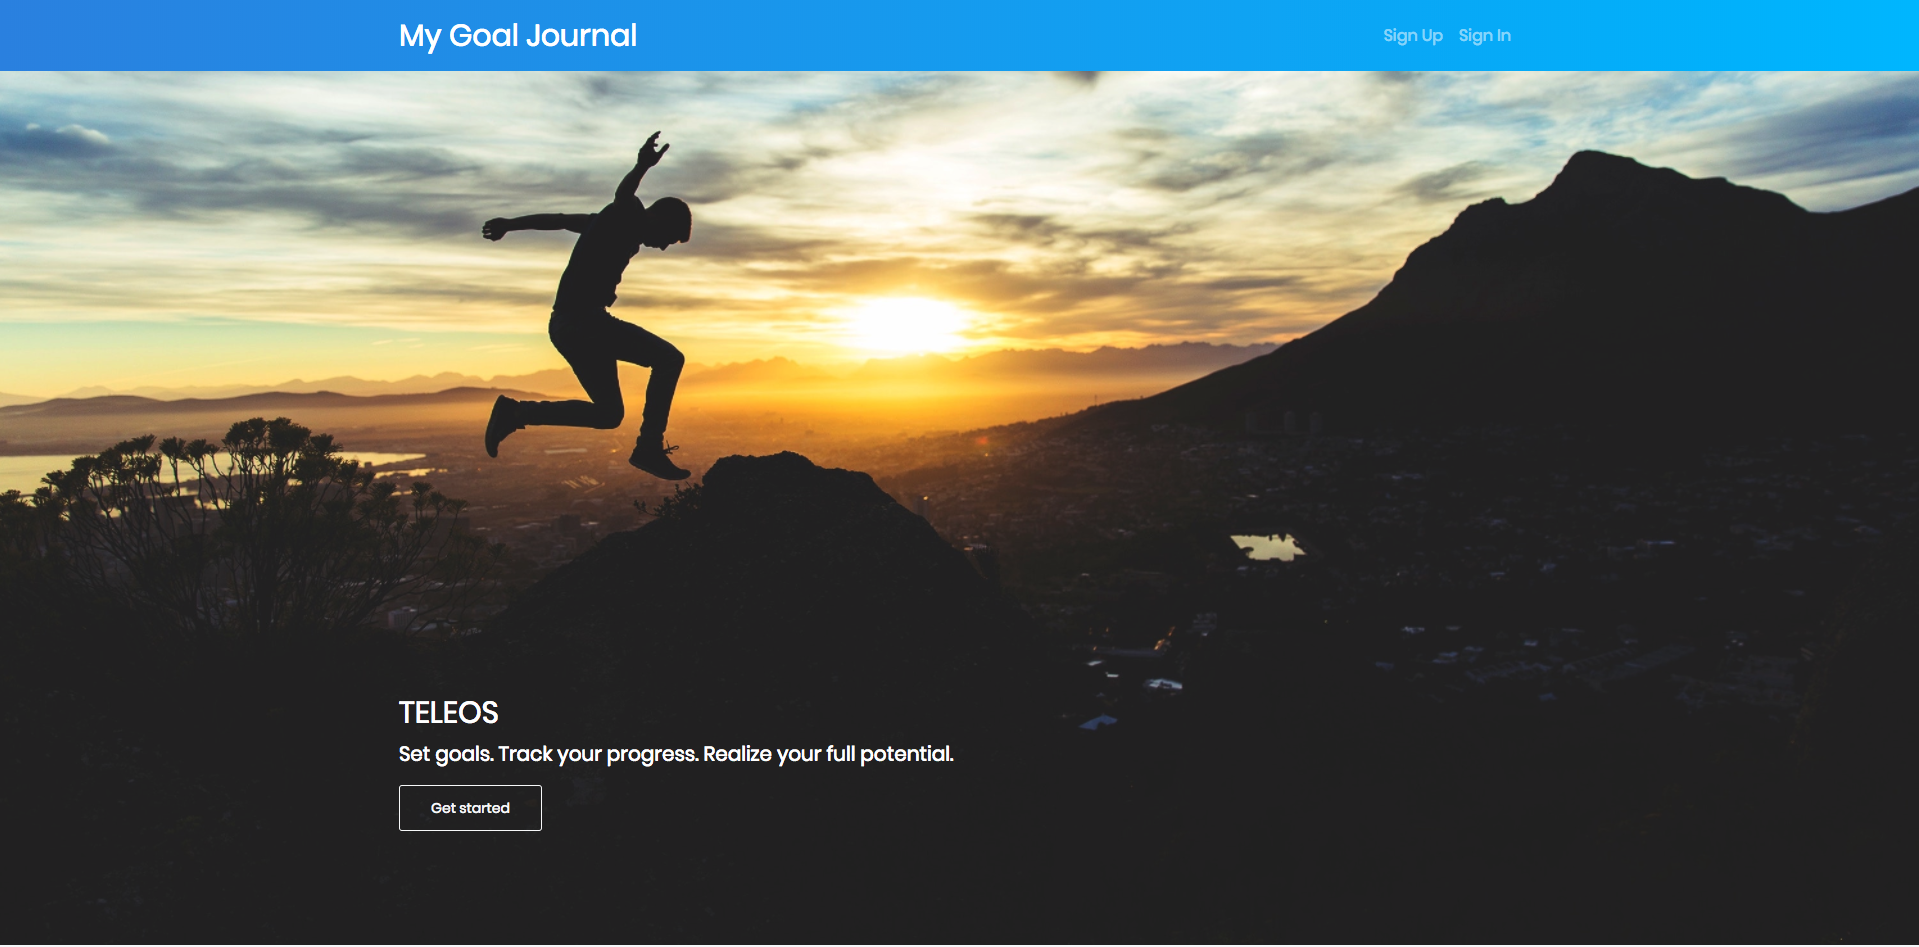
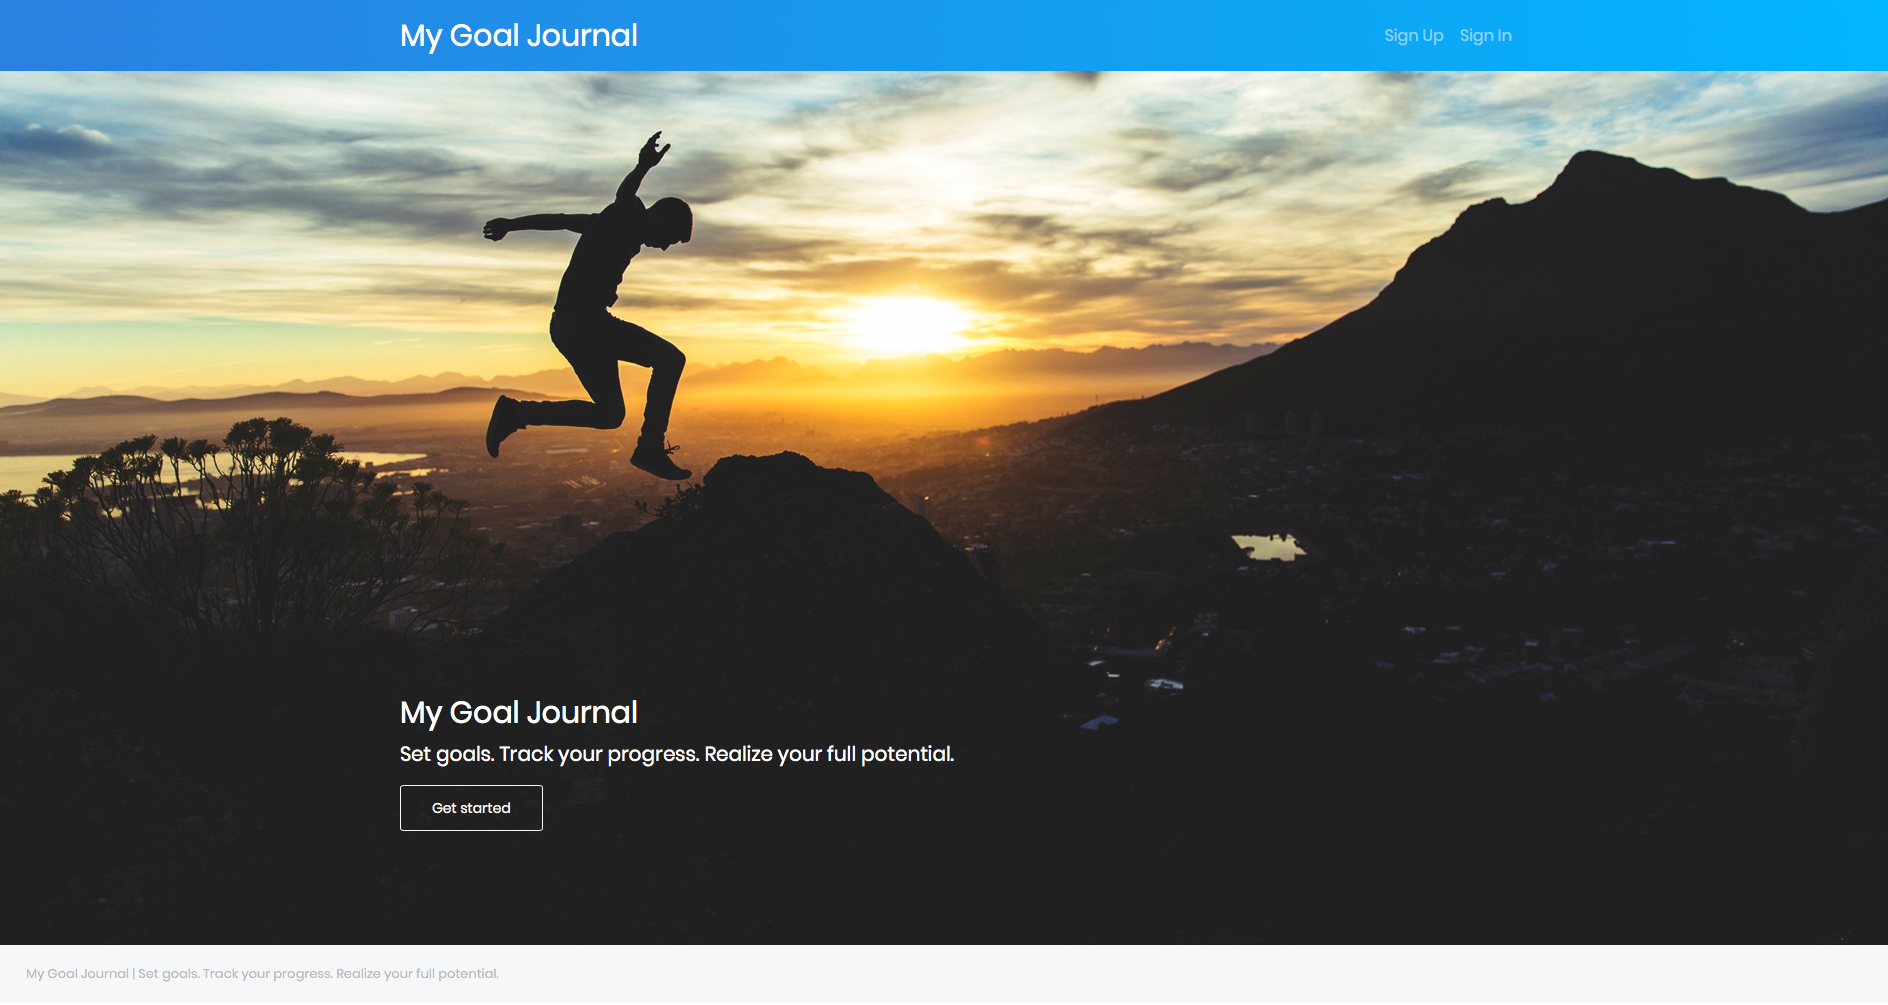
remove outdated site name from landing page

diff --git a/goal_journal/templates/pages/home.html b/goal_journal/templates/pages/home.html
@@ -3,7 +3,7 @@
 <div class="jumbotron jumbotron-fluid home-page-jumbotron">
   <img src="{% static "images/joshua-earle-14603.jpg" %}" class="img-fluid" alt="Person jumping over mountains">
   <div class="container home-page-container">
-    <h1 class="display-4">TELEOS</h1>
+    <h1 class="display-4">My Goal Journal</h1>
     <p class="lead">Set goals. Track your progress. Realize your full potential.</p>
     <p class="lead">
     <a class="btn btn-outline-light btn-lg" href="{% url 'account_signup' %}" role="button">Get started</a>
@@ -12,7 +12,7 @@
 </div>
 <footer class="footer">
   <div class="container-fluid clearfix">
-    <span class="text-muted d-block text-center text-sm-left d-sm-inline-block">TELEOS | Set goals. Track your progress. Realize your full potential.</span>
+    <span class="text-muted d-block text-center text-sm-left d-sm-inline-block">My Goal Journal | Set goals. Track your progress. Realize your full potential.</span>
   </div>
 </footer>
 {% endblock %}
